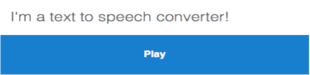
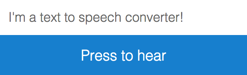
issue2343 - used webspeech api

Changed region(s): [[0.0283, 0.16, 0.7652, 0.32], [0.0, 0.4533, 1.0, 1.0], [0.3117, 0.64, 0.6802, 0.8267]]

diff --git a/public/bundles/components/component-tts/component.html b/public/bundles/components/component-tts/component.html
@@ -1,19 +1,19 @@
-<polymer-element name="ceci-tts" attributes="text fontsize textalign language textcolor backgroundcolor loop source speed label value buttoncolor volume"
+<polymer-element name="ceci-tts" attributes="text fontsize textalign language textcolor backgroundcolor loop speed value buttoncolor volume"
+  extends="ceci-element"
+  fontsize="16"
   textalign="left"
   language="en"
-  fontsize="16"
   textcolor="#666666"
   backgroundcolor="#FFFFFF"
-  extends="ceci-element"
-  volume="0.5"
   loop="false"
+  speed="1.0"
   buttoncolor="#2181cb"
-  speed="1.0">
+  volume="0.5">
   <ceci-definition>
     {
-      "tags": ["sound", "audio", "music"],
+      "tags": ["sound", "audio", "text", "input"],
       "thumbnail": "./thumbnail.png",
-      "description": "Converts text into audio and plays it",
+      "description": "Converts text to speech",
       "name": "Text To Speech",
       "broadcasts": {},
       "listeners": {
@@ -21,16 +21,16 @@
           "description": "Set value text box",
           "label": "Set Text"
         },
-        "play": {
-          "description": "Play the audio clip.",
-          "label": "Play"
+        "speak": {
+          "description": "Speak utterance.",
+          "label": "Speak"
         },
         "pause": {
-          "description": "Pause the audio clip.",
+          "description": "Pause utterance.",
           "label": "Pause"
         },
-        "stopsound": {
-          "description": "Stop the audio clip.",
+        "stop": {
+          "description": "Stop utterance.",
           "label": "Stop"
         }
       },
@@ -44,7 +44,15 @@
           "label": "Language",
           "description": "Select Language",
           "editable": "select",
-          "options": {"English (United States)":"en-US", "English (Britain)": "en-GB", "Spanish":"ES", "French (Canada)":"fr-CA", "French (France)":"fr-FR", "German":"DE", "Hebrew":"IW", "Italian":"IT", "Japanese":"JA", "Korean":"KO", "Chinese (Mandarin)":"zh-CN", "Chinese (Cantonese)":"zh-YUE", "Arabic":"AR", "Czech":"CS", "Danish":"DA", "Dutch":"NL", "Finnish":"FI", "Greek":"EL", "Hindi":"HI", "Hungarian":"HU", "Indonesian":"ID", "Norwegian":"NO", "Polish":"PL", "Portuguese (Brazil)":"pt-BR", "Portuguese (Portugal)":"pt-PT", "Romanian":"RO", "Russian":"RU", "Slovak":"SK", "Swedish":"SV", "Thai":"TH", "Turkish":"TR"}
+          "options": {"English (United States)":"en-US", "English (Britain)": "en-GB", "Spanish":"es-ES",
+                            "French (Canada)":"fr-CA", "French (France)":"fr-FR", "German":"de-DE",
+                            "Hebrew":"he-IL", "Italian":"it-IT", "Japanese":"ja-JP", "Korean":"ko-KR",
+                            "Chinese (Mandarin)":"zh-CN", "Chinese (Cantonese)":"zh-YUE", "Arabic":"ar-SA",
+                            "Czech":"cs-CZ", "Danish":"da-DK", "Dutch (Belgium)":"nl-BE", "Dutch (Netherlands)":"nl-NL",
+                            "Finnish":"fi-FI", "Greek":"el-GR", "Hindi":"hi-IN", "Hungarian":"hu-HU", "Indonesian":"id-ID",
+                            "Norwegian":"nb-NO", "Polish":"pl-PL", "Portuguese (Brazil)":"pt-BR", "Portuguese (Portugal)":"pt-PT",
+                            "Romanian":"ro-RO", "Russian":"ru-RU", "Slovak":"sk-SK", "Swedish (Finland)":"sv-FI",
+                            "Swedish (Sweden)":"sv-SE", "Thai":"th-TH", "Turkish":"tr-TR"}
         },
         "textalign": {
           "label": "Text Alignment",
@@ -64,8 +72,9 @@
           "description": "How loud do you want it to be?",
           "editable": "range",
           "step" : ".01",
-          "min" : 0,
-          "max" : 1
+          "min" : 0.1,
+          "max" : 1,
+          "listener" : true
         },
         "loop": {
           "label": "Loop",
@@ -78,12 +87,8 @@
           "editable": "range",
           "step" : ".01",
           "min" : ".5",
-          "max" : "4",
+          "max" : "3",
           "listener" : true
-        },
-        "label": {
-          "label": "Speak",
-          "description": "Text shown on the tape."
         },
         "buttoncolor": {
           "label": "Button Color",
@@ -96,83 +101,109 @@
   <template>
     <link rel="stylesheet" href="component.css"></link>
     <p style="text-align: {{textalign}}; font-size: {{fontsize}}px; background: {{backgroundcolor}}; color: {{textcolor}}" id="textBox">{{text}}</p>
-        <div id="wrapper" on-ceci-pressdown="{{play}}" class="wrapper">
+        <div id="wrapper" on-ceci-pressdown="{{speak}}" class="wrapper">
       <div class="label">
-        <div class="text">Play</div>
+        <div class="text">Press to hear</div>
       </div>
-    <audio id="sound" src="http://translate.google.com/translate_tts?ie=UTF-8&tl=en&q=" preload="auto"></audio>
     <shadow></shadow>
   </template>
   <script>
     Polymer('ceci-tts', {
       ready: function () {
         this.super();
-        this.$.engine = "http://translate.google.com/translate_tts?ie=UTF-8&";
+        this.$.utterance = new SpeechSynthesisUtterance();
+        this.$.prevIndex = "";
+        this.$.curIndex = "";
+        this.$.container = this.shadowRoot.querySelector("#textBox");
         var that = this;
-        this.$.sound.addEventListener("ended",function(){
-          that.stopsound();
-          if(that.loop === "true"){
-            that.play();
+        this.$.utterance.addEventListener("end",function(e) {
+          that.highlightWord(e);
+          that.stop();
+          that.$.prevIndex = '';
+          that.$.curIndex = '';
+          if(that.loop === "true") {
+            that.speak();
+          }
+        });
+        this.$.utterance.addEventListener("boundary",function(e) {
+          if(e.charIndex > 0 ) {
+            that.highlightWord(e);
           }
         });
       },
+      highlightWord: function(e) {
+        innerHTML = this.$.container.innerHTML =  this.text;
+        if(this.state != "stopped"){
+          this.$.prevIndex = this.$.curIndex;
+          if(e.charIndex === 0) {
+            this.$.curIndex = this.text.length;
+          }else{
+            this.$.curIndex = e.charIndex;
+          }
+          var highlightWordLength =  (this.$.curIndex - this.$.prevIndex);
+          this.$.container.innerHTML = innerHTML.substring(0, this.$.prevIndex )
+                                             + "<span class='highlight'>"
+                                             + innerHTML.substring(this.$.prevIndex,this.$.prevIndex+highlightWordLength)
+                                             + "</span>"
+                                             + innerHTML.substring(this.$.prevIndex + highlightWordLength);
+        }
+      },
       setValue: function(e) {
         this.text = e;
+        this.$.container.innerHTML =  this.text;
       },
       state : "stopped",
-      stopsound : function(){
-        this.$.sound.pause();
-        this.$.sound.currentTime = 0;
-        this.$.wrapper.classList.remove("playing");
+      stop : function() {
+        speechSynthesis.cancel();
         this.state = "stopped";
       },
-      play: function() {
-        var readyState = this.$.sound.readyState;
-        if(readyState != 0) {
-          this.$.wrapper.classList.add("playing");
+      speak: function(){
+        if ( ('speechSynthesis' in window) ) {
           if(this.state == "paused") {
-            this.$.sound.play();
-            this.state = "playing";
-          } else {
-            this.$.sound.pause();
-            this.$.sound.currentTime = 0;
-            this.$.sound.play();
-            this.state = "playing";
+            speechSynthesis.resume();
+            this.state = "speaking";
+          } else if(this.state == "stopped") {
+            this.$.utterance.text = this.text;
+            this.$.utterance.lang = this.$.language;
+            speechSynthesis.speak(this.$.utterance);
+            this.state = "speaking";
           }
-        } else {
-          this.$.wrapper.classList.remove("cantplay");
-          this.$.wrapper.offsetWidth = this.$.wrapper.offsetWidth;
-          this.$.wrapper.classList.add("cantplay");
         }
       },
       pause : function(){
-        this.$.wrapper.classList.remove("playing");
-        this.$.sound.pause();
-        this.state = "paused";
-      },
-      textChanged: function(oldValue, newValue) {
-        var rate = this.$.sound.playbackRate;
-        this.$.sound.playbackRate = rate;
-        this.$.sound.src =  this.$.engine + "tl=" + this.$.language + "&q=" + this.text;
+        if(this.state == "speaking") {
+          speechSynthesis.pause();
+          this.state = "paused";
+        }
       },
       languageChanged: function(oldValue, newValue) {
          this.$.language = newValue;
-         this.$.sound.src =  this.$.engine + "tl=" + this.$.language + "&q=" + this.text;
+      },
+      textChanged: function(e) {
+        this.$.container.innerHTML =  this.text;
       },
       setSpeed: function(channel, value) {
-        this.speedChanged(this.$.sound.playbackRate || 1, value);
+        this.speedChanged(this.$.utterance.rate || 1, value);
       },
-      volumeChanged : function(oldValue, newValue){
-        this.$.sound.volume = newValue;
+      volumeChanged : function(oldValue, newValue) {
+         this.volumeChanged(this.$.utterance.volume || 1, value);
       },
       buttoncolorChanged: function (oldValue, newValue) {
         this.$.wrapper.style.background = newValue;
+      },
+      volumeChanged: function(oldValue, newValue) {
+        try  {
+          var f = parseFloat(newValue);
+          if (f) {
+            this.$.utterance.volume = parseFloat(newValue);
+          }
+        } catch (e) {}
       },
       speedChanged: function(oldValue, newValue) {
         try  {
           var f = parseFloat(newValue);
           if (f) {
-            this.$.sound.playbackRate = parseFloat(newValue);
+            this.$.utterance.rate = parseFloat(newValue);
           }
         } catch (e) {}
       }

diff --git a/public/bundles/components/component-tts/component.css b/public/bundles/components/component-tts/component.css
@@ -12,3 +12,18 @@
   margin: 0;
   line-height: auto;
 }
+
+:host .text {
+  z-index: 2;
+  padding: 12px;
+  font-size: 18px;
+  font-weight: 100;
+  text-overflow: ellipsis;
+  text-align: center;
+  color: #ffffff;
+  cursor: pointer;
+}
+
+:host .highlight {
+  background-color:yellow;
+}

diff --git a/public/bundles/components/component-tts/index.html b/public/bundles/components/component-tts/index.html
@@ -15,4 +15,3 @@
      <button type="button" onclick="speak()">Click Me!</button>
   </body>
 </html>
-
